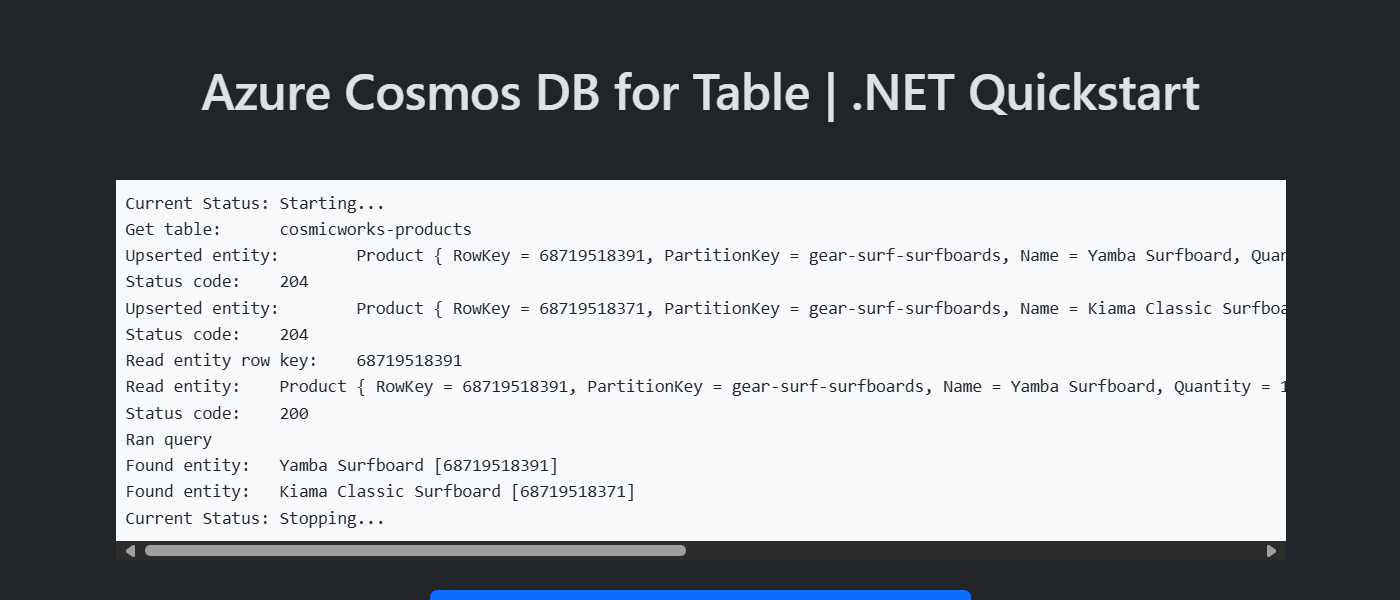
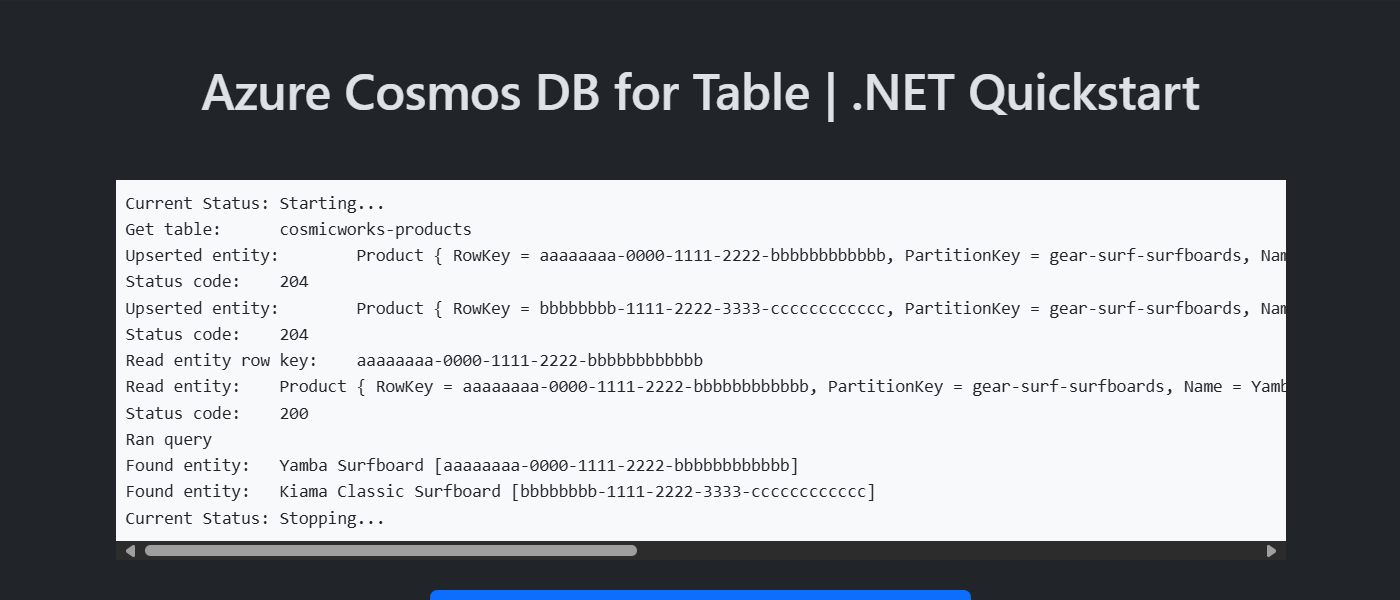
Update GUIDs

diff --git a/src/services/DemoService.cs b/src/services/DemoService.cs
@@ -28,7 +28,7 @@ public sealed class DemoService(
         {
             Product entity = new()
             {
-                RowKey = "68719518391",
+                RowKey = "aaaaaaaa-0000-1111-2222-bbbbbbbbbbbb",
                 PartitionKey = "gear-surf-surfboards",
                 Name = "Yamba Surfboard",
                 Quantity = 10,
@@ -48,7 +48,7 @@ public sealed class DemoService(
         {
             Product entity = new()
             {
-                RowKey = "68719518371",
+                RowKey = "bbbbbbbb-1111-2222-3333-cccccccccccc",
                 PartitionKey = "gear-surf-surfboards",
                 Name = "Kiama Classic Surfboard",
                 Quantity = 25,
@@ -67,7 +67,7 @@ public sealed class DemoService(
 
         {
             Response<Product> response = await client.GetEntityAsync<Product>(
-                rowKey: "68719518391",
+                rowKey: "aaaaaaaa-0000-1111-2222-bbbbbbbbbbbb",
                 partitionKey: "gear-surf-surfboards"
             );
 
